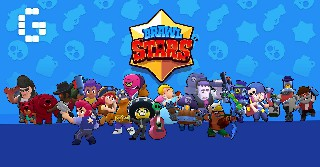
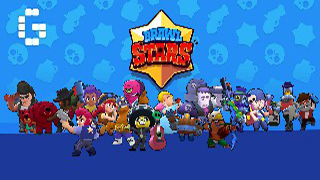
update

diff --git a/src/components/OutrosJogos.js b/src/components/OutrosJogos.js
@@ -13,7 +13,7 @@ import {
     Actions,
 } from 'react-native-router-flux';
 
-const btnBack = require('../imgs/arrow_left.png');
+const btnBack = require('../imgs/arrow_left_white.png');
 
 export default class OutrosJogos extends React.Component {
     constructor(props) {
@@ -50,7 +50,7 @@ export default class OutrosJogos extends React.Component {
 
                 <View style={styles.navBarStyle}>
                     <TouchableHighlight
-                        underlayColor={'#fff'}
+                        underlayColor={'#04a0e6'}
                         activeOpacity={0.3}
                         onPress= {() => {
                             Actions.pop()
@@ -74,9 +74,54 @@ export default class OutrosJogos extends React.Component {
                                 keyExtractor={item => item.id}
                                 renderItem={({item, index}) =>
                                 <View style={styles.styleList}>
-                                    <Image source={item.logoGame} style={{borderTopRightRadius: 30, borderTopLeftRadius: 30,}}/>
-                                    <Text style={{textAlign:'center', marginTop: 5, marginBottom: 5,}}>{item.name}</Text>
-                                    <Text style={{textAlign:'center'}}>{item.description}</Text>
+                                    <Image
+                                        source={item.logoGame}
+                                        style={{
+                                            borderTopRightRadius: 30,
+                                            borderTopLeftRadius: 30,
+                                        }}
+                                    />
+                                    <Text
+                                        style={{
+                                            textAlign:'center',
+                                            marginTop: 5,
+                                            marginBottom: 5,
+                                            fontWeight: 'bold',
+                                            fontSize: 18
+                                        }}>
+                                        {item.name}
+                                    </Text>
+                                    <Text
+                                        style={{
+                                            textAlign:'center',
+                                            margin: 5
+                                        }}>
+                                        {item.description}
+                                    </Text>
+                                    <TouchableHighlight
+                                        underlayColor={'#04a0e6'}
+                                        activeOpacity={0.3}
+                                        onPress= {() => alert('Jogo')}
+                                        style={{
+                                            borderBottomLeftRadius: 30,
+                                            borderBottomRightRadius: 30,
+                                        }}
+                                    >
+                                    <Text
+                                    style={{
+                                        textAlign:'center',
+                                        backgroundColor: '#04a0e6',
+                                        padding: 12,
+                                        borderBottomLeftRadius: 30,
+                                        borderBottomRightRadius: 30,
+                                        color: '#fff',
+                                        fontWeight: 'bold',
+                                        fontSize: 20
+                                    }}
+                                    >
+                                        Obter Jogo
+                                    </Text>
+                                    </TouchableHighlight>
                                 </View>
                                 }
                             />
@@ -91,21 +136,22 @@ export default class OutrosJogos extends React.Component {
 const styles = StyleSheet.create({
     viewContainer: {
         flex: 1,
-        backgroundColor: '#61BD8C',
+        backgroundColor: '#fff',
         marginBottom: 20
     },
 
     navBarStyle: {
-        backgroundColor: '#fff',
+        backgroundColor: '#04a0e6',
         padding: 10,
         height: 50,
         flexDirection: 'row',
+        elevation: 5
     },
 
     titleStyle: {
         fontSize: 18,
         fontWeight: 'bold',
-        color: '#61BD8C',
+        color: '#fff',
         textAlign: 'center',
         flex: 1,
         marginTop: 2,
@@ -127,19 +173,19 @@ const styles = StyleSheet.create({
     },
 
     styleList: {
-        backgroundColor: '#fff',
+        backgroundColor: '#a9dfea',
         height: 320,
         width: 320,
         marginTop: 10,
         marginBottom: 10,
         borderRadius: 30,
+        elevation: 5
     },
 
     listContainer: {
         flex: 1,
         justifyContent: 'center',
         alignItems: 'center',
-        backgroundColor: '#61BD8C',
     },
 
 });

diff --git a/src/components/SobreJogo.js b/src/components/SobreJogo.js
@@ -11,7 +11,7 @@ import {
     Actions,
 } from 'react-native-router-flux';
 
-const btnBack = require('../imgs/arrow_left.png');
+const btnBack = require('../imgs/arrow_left_white.png');
 
 export default class SobreJogo extends React.Component {
     render() {
@@ -20,7 +20,7 @@ export default class SobreJogo extends React.Component {
 
                 <View style={styles.navBarStyle}>
                     <TouchableHighlight
-                        underlayColor={'#fff'}
+                        underlayColor={'#61BD8C'}
                         activeOpacity={0.3}
                         onPress= {() => {
                             Actions.pop()
@@ -50,20 +50,21 @@ export default class SobreJogo extends React.Component {
 const styles = StyleSheet.create({
     viewContainer: {
         flex: 1,
-        backgroundColor: '#61BD8C',
+        backgroundColor: '#fff',
     },
 
     navBarStyle: {
-        backgroundColor: '#fff',
+        backgroundColor: '#61BD8C',
         padding: 10,
         height: 50,
         flexDirection: 'row',
+        elevation: 5
     },
 
     titleStyle: {
         fontSize: 18,
         fontWeight: 'bold',
-        color: '#61BD8C',
+        color: '#fff',
         textAlign: 'center',
         flex: 1,
         marginTop: 2,

diff --git a/src/components/Principal.js b/src/components/Principal.js
@@ -64,11 +64,12 @@ export default class Principal extends React.Component {
 const styles = StyleSheet.create({
     viewContainer: {
         flex: 1,
-        backgroundColor: '#61BD8C',
+        backgroundColor: '#2a7a9a',
     },
     barTitle:{
         height: 45,
         backgroundColor: 'white',
+        elevation: 5
     },
 
     txtTitle:{

diff --git a/src/components/Resultado.js b/src/components/Resultado.js
@@ -83,6 +83,7 @@ const styles = StyleSheet.create({
         padding: 10,
         height: 50,
         flexDirection: 'row',
+        elevation: 5
     },
 
     titleStyle: {
